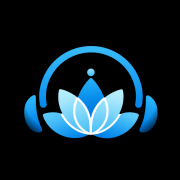
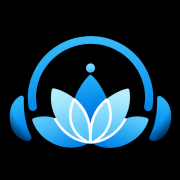
El ícono de la app tenía demasiado borde negro
En el lanzador la flor se perdía adentro de un cuadrado casi vacío. El ícono
maskable llevaba 30% de aire por lado, que dejaba la marca en el 40% del ancho.

El número correcto sale de una cuenta, no de tantear. Android garantiza sólo el
círculo central del 80%, o sea radio 0,4 del lado. Lo que más lejos llega del
centro son las puntas de los auriculares, sobre la horizontal, a media anchura
de la marca. Con un aire `p` esa media anchura vale 0,5·(1−2p), y entra si
0,5·(1−2p) ≤ 0,4 — o sea p ≥ 0,10. Diez por ciento es el máximo tamaño posible
sin que ninguna máscara corte nada, y es el doble de grande que antes.

Los íconos comunes bajan de 12% a 4%: el recorte ya trae su propio margen negro
—la marca es más ancha que alta y el cuadrado la deja con aire arriba y abajo—
así que todo lo que se sume se suma a ése.

Verificado dibujando la máscara circular encima: entran las puntas de los
auriculares, que es el punto crítico.

Changed region(s): [[0.0278, 0.1944, 0.9722, 0.8333]]

diff --git a/public/sw.js b/public/sw.js
@@ -10,7 +10,7 @@
  *   2. el ?v= de los <link rel="icon"> del blade
  *   3. el ?v= de los "src" del manifest
  */
-const CACHE_APP = 'dharmify-app-v4';
+const CACHE_APP = 'dharmify-app-v5';
 
 /*
  * La caché del audio NO lleva número de versión, a propósito, y el `activate` de

diff --git a/app/Console/Commands/GenerarIconos.php b/app/Console/Commands/GenerarIconos.php
@@ -35,17 +35,30 @@ class GenerarIconos extends Command
      */
     private const UMBRAL = 110;
 
-    /** Aire alrededor de la marca, en proporción a su lado. */
-    private const AIRE = 0.12;
+    /**
+     * Aire alrededor de la marca, en proporción al lado del ícono.
+     *
+     * Poco a propósito: el recorte ya trae su propio margen negro —la marca es
+     * más ancha que alta y el cuadrado la deja con aire arriba y abajo— así que
+     * todo lo que se sume acá se suma a ese.
+     */
+    private const AIRE = 0.04;
 
     /**
-     * El recorte extra del ícono maskable.
+     * El aire del ícono maskable, que sale de una cuenta y no de tantear.
      *
      * Android le pasa una máscara por encima —círculo, cuadrado redondeado, gota
-     * según el teléfono— y se queda con el 80% del centro. Sin este aire, en un
-     * lanzador circular la flor aparecería con los pétalos cortados.
+     * según el teléfono— y garantiza sólo el círculo central del 80%, o sea un
+     * radio de 0,4 del lado. Lo que más lejos llega del centro son las puntas de
+     * los auriculares, sobre la horizontal, a media anchura de la marca. Con un
+     * aire `p`, esa media anchura vale 0,5·(1−2p) del ícono, y entra en el
+     * círculo si 0,5·(1−2p) ≤ 0,4, o sea p ≥ 0,10.
+     *
+     * O sea: 0,10 es el máximo tamaño posible sin que la máscara corte nada.
+     * Estaba en 0,30, que dejaba la marca en el 40% del ancho —de ahí el borde
+     * negro que se comía el logo en el lanzador—.
      */
-    private const AIRE_MASCARA = 0.30;
+    private const AIRE_MASCARA = 0.10;
 
     public function handle(): int
     {

diff --git a/resources/views/app.blade.php b/resources/views/app.blade.php
@@ -71,9 +71,9 @@
              que si no se quedan con el ícono viejo para siempre. Al cambiar un
              ícono hay que subir este número Y el de sw.js Y el del manifest. --}}
         <link rel="manifest" href="/manifest.webmanifest">
-        <link rel="icon" href="/favicon.ico?v=4" sizes="any">
-        <link rel="icon" href="/icons/icon-192.png?v=4" type="image/png">
-        <link rel="apple-touch-icon" href="/apple-touch-icon.png?v=4">
+        <link rel="icon" href="/favicon.ico?v=5" sizes="any">
+        <link rel="icon" href="/icons/icon-192.png?v=5" type="image/png">
+        <link rel="apple-touch-icon" href="/apple-touch-icon.png?v=5">
 
         @fonts
 
